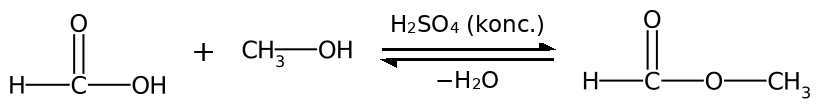
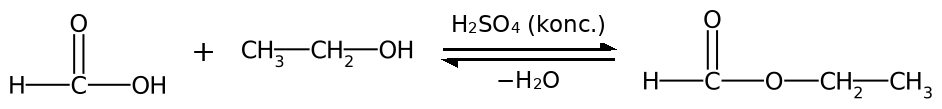
Alkoholy – chemické vlastnosti: methanol + K, ethanol + Ca, esterifikace methanol + kys. mravenčí
Claude-Session: https://claude.ai/code/session_01FjEJeX7ou8cUNgQfiMD5ye

diff --git a/public/prezentace/alkoholy-chemicke-vlastnosti/index.html b/public/prezentace/alkoholy-chemicke-vlastnosti/index.html
@@ -76,12 +76,14 @@
 </section>
 
 <section class="slide" data-typ="reseni">
-<h2>Alkoholát vznikne reakcí s alkalickým kovem</h2>
-<div class="rov">2 CH<sub>3</sub>CH<sub>2</sub>OH + 2 Na → 2 CH<sub>3</sub>CH<sub>2</sub>O<sup>−</sup>Na<sup>+</sup> + H<sub>2</sub></div>
-<ul style="font-size:25px">
+<h2>Alkoholát vznikne reakcí s kovem</h2>
+<div class="rov" style="font-size:26px;margin-bottom:6px">2 CH<sub>3</sub>CH<sub>2</sub>OH + 2 Na → 2 CH<sub>3</sub>CH<sub>2</sub>O<sup>−</sup>Na<sup>+</sup> + H<sub>2</sub> <span class="male">ethanolát sodný</span></div>
+<div class="rov f" style="font-size:26px;margin-bottom:6px">2 CH<sub>3</sub>OH + 2 K → 2 CH<sub>3</sub>O<sup>−</sup>K<sup>+</sup> + H<sub>2</sub> <span class="male">methanolát draselný</span></div>
+<div class="rov f" style="font-size:26px">2 CH<sub>3</sub>CH<sub>2</sub>OH + Ca → (CH<sub>3</sub>CH<sub>2</sub>O<sup>−</sup>)<sub>2</sub>Ca<sup>2+</sup> + H<sub>2</sub> <span class="male">ethanolát vápenatý</span></div>
+<ul style="font-size:23px">
 <li>s NaOH prakticky nereaguje – alkoholát je <b>silnější zásada než hydroxid</b>, rovnováha leží vlevo</li>
-<li class="f">vodou se alkoholát rozkládá zpět:<div class="rov" style="font-size:26px">CH<sub>3</sub>CH<sub>2</sub>ONa + H<sub>2</sub>O → CH<sub>3</sub>CH<sub>2</sub>OH + NaOH</div></li>
-<li class="f">využití: methanolát sodný = katalyzátor výroby <b>bionafty</b>; ethanolem se v laboratoři likvidují zbytky sodíku</li>
+<li class="f">vodou se rozkládá zpět: CH<sub>3</sub>CH<sub>2</sub>ONa + H<sub>2</sub>O → CH<sub>3</sub>CH<sub>2</sub>OH + NaOH</li>
+<li class="f">využití: methanolát sodný = katalyzátor výroby <b>bionafty</b></li>
 </ul>
 <aside class="poznamky"><p>Demonstrace (jen učitel): malý kousek Na do bezvodého ethanolu vs. do vody. Po odpaření zásaditý zbytek (fenolftalein).</p></aside>
 </section>
@@ -132,10 +134,12 @@
 
 <section class="slide" data-typ="priklad">
 <h2>Esterifikace: příklady</h2>
-<div class="schema"><img src="/obrazky/alkoholy/reakce/ex_ester1.png" width="927" alt=""></div>
-<p class="f stred">kyselina octová + ethanol → <b>ethyl-acetát</b> (octan ethylnatý) – rozpouštědlo v odlakovačích</p>
-<div class="schema"><img src="/obrazky/alkoholy/reakce/ex_ester2.png" width="1040" alt=""></div>
-<p class="f stred">kyselina octová + 3-methylbutan-1-ol → <b>3-methylbutyl-acetát</b> (isoamyl-acetát) – vůně banánů</p>
+<div class="schema"><img src="/obrazky/alkoholy/reakce/ex_ester1.png" width="781" alt=""></div>
+<p class="f stred male" style="margin:0 0 4px">kyselina octová + ethanol → <b>ethyl-acetát</b> (octan ethylnatý) – rozpouštědlo v odlakovačích</p>
+<div class="schema"><img src="/obrazky/alkoholy/reakce/ex_ester3.png" width="656" alt=""></div>
+<p class="f stred male" style="margin:0 0 4px">kyselina mravenčí + methanol → <b>methyl-formiát</b> (mravenčan methylnatý)</p>
+<div class="schema"><img src="/obrazky/alkoholy/reakce/ex_ester2.png" width="881" alt=""></div>
+<p class="f stred male" style="margin:0">kyselina octová + 3-methylbutan-1-ol → <b>3-methylbutyl-acetát</b> (isoamyl-acetát) – vůně banánů</p>
 <aside class="poznamky"><p>Pokus: ethanol + kyselina octová + kapky konc. H<sub>2</sub>SO<sub>4</sub>, zahřát ve vodní lázni, vylít do studené vody – ovocná vůně. Vonět ovíváním.</p></aside>
 </section>
 
@@ -163,14 +167,14 @@
 
 <section class="slide" data-typ="ukol" data-cas="5">
 <h2>C · Esterifikace</h2>
-<div class="ulohy jeden"><div class="uloha"><span class="l">E1</span><img src="/obrazky/alkoholy/reakce/cv_ester_E1_zak.png" width="604" alt=""></div><div class="uloha"><span class="l">E2</span><img src="/obrazky/alkoholy/reakce/cv_ester_E2_zak.png" width="792" alt=""></div><div class="uloha"><span class="l">E3</span><img src="/obrazky/alkoholy/reakce/cv_ester_E3_zak.png" width="673" alt=""></div><div class="uloha"><span class="l">E4</span><img src="/obrazky/alkoholy/reakce/cv_ester_E4_zak.png" width="947" alt=""></div></div>
+<div class="ulohy jeden"><div class="uloha"><span class="l">E1</span><img src="/obrazky/alkoholy/reakce/cv_ester_E1_zak.png" width="652" alt=""></div><div class="uloha"><span class="l">E2</span><img src="/obrazky/alkoholy/reakce/cv_ester_E2_zak.png" width="792" alt=""></div><div class="uloha"><span class="l">E3</span><img src="/obrazky/alkoholy/reakce/cv_ester_E3_zak.png" width="673" alt=""></div><div class="uloha"><span class="l">E4</span><img src="/obrazky/alkoholy/reakce/cv_ester_E4_zak.png" width="947" alt=""></div></div>
 <p class="male">Doplň chybějící látky a pojmenuj ester.</p>
 </section>
 
 <section class="slide" data-typ="reseni">
 <h2>C · Řešení</h2>
-<div class="ulohy jeden"><div class="uloha"><span class="l">E1</span><img src="/obrazky/alkoholy/reakce/cv_ester_E1_res.png" width="590" alt=""></div><div class="uloha"><span class="l">E2</span><img src="/obrazky/alkoholy/reakce/cv_ester_E2_res.png" width="881" alt=""></div><div class="uloha"><span class="l">E3</span><img src="/obrazky/alkoholy/reakce/cv_ester_E3_res.png" width="614" alt=""></div><div class="uloha"><span class="l">E4</span><img src="/obrazky/alkoholy/reakce/cv_ester_E4_res.png" width="881" alt=""></div></div>
-<div class="nazvy">E1 methyl-formiát · E2 propyl-propanoát · E3 kyselina octová → methyl-acetát · E4 H<sub>2</sub>SO<sub>4</sub> (konc.), −H<sub>2</sub>O → butyl-acetát</div>
+<div class="ulohy jeden"><div class="uloha"><span class="l">E1</span><img src="/obrazky/alkoholy/reakce/cv_ester_E1_res.png" width="678" alt=""></div><div class="uloha"><span class="l">E2</span><img src="/obrazky/alkoholy/reakce/cv_ester_E2_res.png" width="881" alt=""></div><div class="uloha"><span class="l">E3</span><img src="/obrazky/alkoholy/reakce/cv_ester_E3_res.png" width="614" alt=""></div><div class="uloha"><span class="l">E4</span><img src="/obrazky/alkoholy/reakce/cv_ester_E4_res.png" width="881" alt=""></div></div>
+<div class="nazvy">E1 ethyl-formiát · E2 propyl-propanoát · E3 kyselina octová → methyl-acetát · E4 H<sub>2</sub>SO<sub>4</sub> (konc.), −H<sub>2</sub>O → butyl-acetát</div>
 </section>
 
 <section class="slide" data-typ="vyklad">
@@ -398,7 +402,7 @@
 <h2>Shrnutí</h2>
 <table style="font-size:21px">
 <tr><th>reakce</th><th>činidlo</th><th>produkt</th></tr>
-<tr><td>s alkalickým kovem</td><td>Na, K</td><td>alkoholát + H<sub>2</sub></td></tr>
+<tr><td>s kovem</td><td>Na, K, Ca</td><td>alkoholát + H<sub>2</sub></td></tr>
 <tr><td>esterifikace (⇌)</td><td>R–COOH, H<sub>2</sub>SO<sub>4</sub></td><td>ester + H<sub>2</sub>O</td></tr>
 <tr><td>substituce</td><td>HX, SOCl<sub>2</sub>; H<sub>2</sub>SO<sub>4</sub> 140 °C</td><td>halogenderivát; ether</td></tr>
 <tr><td>eliminace</td><td>H<sub>2</sub>SO<sub>4</sub> 170 °C</td><td>alken (Zajcev)</td></tr>
